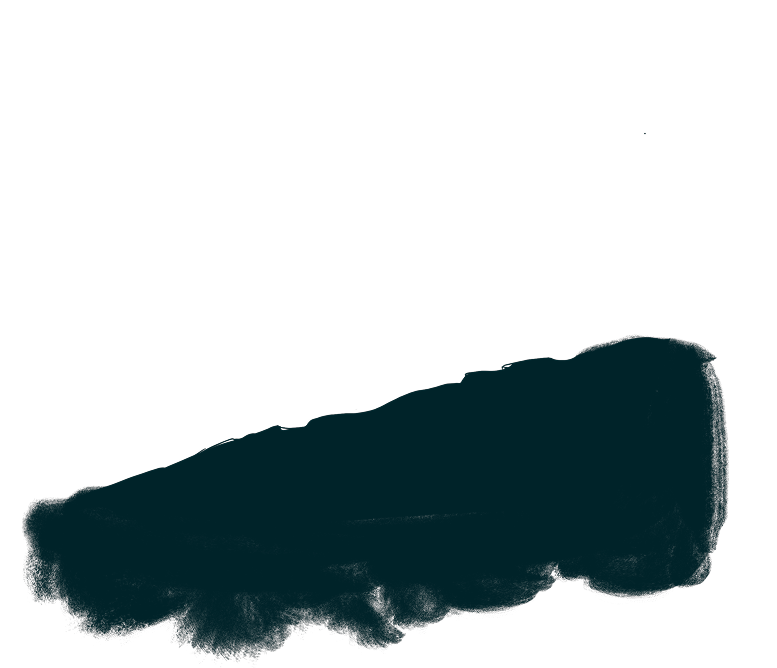
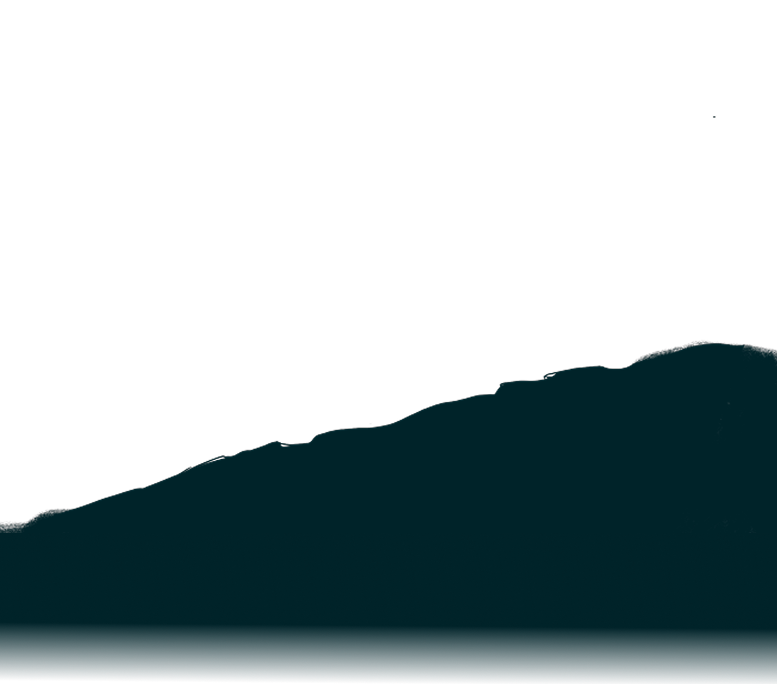
hard to continue

diff --git a/style.css b/style.css
@@ -8,7 +8,8 @@ body {
   overflow-x: hidden;
   font-family: -apple-system, BlinkMacSystemFont, 'Segoe UI', Roboto, Oxygen, Ubuntu,
                'Fira Sans', 'Droid Sans', 'Helvetica Neue', sans-serif;
-  background: linear-gradient(to bottom, #ffffff 0%,  #faf3e8 20%, #faf3e8 93%,  #0E2229 98%, #0E2229 100%);
+  /* background: linear-gradient(to bottom, #ffffff 0%,  #faf3e8 20%, #faf3e8 93%,  #0E2229 98%, #0E2229 100%); */
+  background:linear-gradient(to bottom, #ffffff 0%, #faf3e8 56%, #6A0201 59%, #0E2229 66%, #faf3e8 69%, #faf3e8 90%, #0E2229 96%, #0E2229 100%);
   color: #333;
 }
 
@@ -540,7 +541,7 @@ body {
 .ceasefire-parallax {
   position: relative;
   height: 200vh;             /* tall scrollable section  */
-background: linear-gradient(180deg,rgba(106, 2, 1, 0) 0%, rgba(106, 2, 1, 1) 28%, rgba(14, 34, 41, 1) 90%, rgba(6, 5, 49, 0) 100%);
+/* background: linear-gradient(180deg,rgba(106, 2, 1, 0) 0%, rgba(106, 2, 1, 1) 28%, rgba(14, 34, 41, 1) 90%, rgba(6, 5, 49, 0) 100%); */
   overflow: hidden;
 }
 
@@ -614,7 +615,7 @@ background: linear-gradient(180deg,rgba(106, 2, 1, 0) 0%, rgba(106, 2, 1, 1) 28%
 }
 
 .sky  { z-index: 3; bottom: 8%; }
-.city { z-index: 1; bottom: 10%; }
+.dark-city { z-index: 1; bottom: 80px; }
 .people { z-index: 4; bottom: 13%; width: 80%; right: 20px; }
 .rock { z-index: 5; bottom: 10%; }
 
@@ -827,7 +828,9 @@ position: relative;}
 /* === Desktop Enhancements === */
 @media (min-width: 1024px) {
 body {
-    background: linear-gradient(to bottom, #ffffff 0%,  #faf3e8 5%, #faf3e8 90%,  #0E2229 96%, #0E2229 100%);
+    /* background: linear-gradient(to bottom, #ffffff 0%,  #faf3e8 5%, #faf3e8 90%,  #0E2229 96%, #0E2229 100%); */
+      background: linear-gradient(to bottom, #ffffff 0%,  #faf3e8 56%,  #6A0201 60%,  #0E2229 65%, #faf3e8 70%, #faf3e8 90%, #0E2229 96%, #0E2229 100%);
+
  }
 
  .layer {
@@ -979,11 +982,20 @@ body {
     z-index: 1;
 }
 
+.black-smoke {
+  position: absolute;
+  bottom: -100px;
+  width: 100%;
+  height: 40vh;
+  background: linear-gradient(to bottom, rgba(14,34,41,1) 0%, rgba(14,34,41,0) 95%,  #faf3e8 100%);
+  z-index: 2;
+}
+
 .sky  {
   bottom: -50px;
 }
 
-.city {
+.dark-city {
   bottom: 0;
 }
 
@@ -1108,6 +1120,13 @@ body {
 }
 
 .timeline-block:last-of-type .timeline-header {
+  position: relative !important;
+  top: auto !important;
+  background: none;
+  z-index: 1;
+}
+
+.non-sticky {
   position: relative !important;
   top: auto !important;
   background: none;

diff --git a/index.html b/index.html
@@ -301,11 +301,11 @@
     <img src="img/flair-3.png" class="flair-layer flare" data-speed="0.18" alt="Flare 3" />
     </div>
      <img src="img/smoke.png" class="smoke-bottom" alt="City-smoke" />
-    <img src="img/dark-city.png" class="change-mobile flair-layer city" alt="City silhouette" />
+    <img src="img/dark-city.png" class="change-mobile flair-layer dark-city" alt="City silhouette" />
     <img src="img/red-smoke.png" class="change-mobile flair-layer sky" alt="red sky background" />
     <img src="img/people-sit.png" class="change-mobile flair-layer people" alt="red sky background" />
     <img src="img/people-rock.png" class="change-mobile flair-layer rock" alt="City silhouette" />
-
+    <!-- <div class="black-smoke"></div> -->
   </div>
   </section>
 
@@ -314,7 +314,7 @@
  <!-- Block 9 -->
 
 <div class="timeline-block">
-      <div class="timeline-header">
+      <div class="timeline-header non-sticky">
         <span class="date">15.01.2024</span>
         <h2 class="headline">
           <a target="_blank" href="https://www.972mag.com/gaza-ceasefire-fragile-hope-palestinians/">
@@ -436,7 +436,7 @@
 
   <!-- Block 13 -->
   <div class="timeline-block">
-       <div class="timeline-header">
+       <div class="timeline-header non-sticky">
       <span class="date">09.09.2025</span>
       <h2 class="headline">
       <a target="_blank" href="https://www.972mag.com/gaza-city-bombing-displacement-evacuation/">

diff --git a/effect.js b/effect.js
@@ -246,9 +246,11 @@ window.addEventListener("scroll", () => {
 (() => {
   const section = document.querySelector(".ceasefire-parallax");
   const flares = section.querySelectorAll(".flare");
-  const city = section.querySelector(".city");
+  const city = section.querySelector(".dark-city");
   const people = section.querySelector(".people");
   const rock = section.querySelector(".rock");
+  const smoke = section.querySelector(".smoke-bottom");
+
 
   window.addEventListener("scroll", () => {
     const rect = section.getBoundingClientRect();
@@ -261,9 +263,14 @@ window.addEventListener("scroll", () => {
       flare.style.transform = `translateY(${translateY}vh)`;
     });
  // === City rises (background) ===
-    const cityLift = -progress * 20; // moves upward as you scroll
+    const cityLift = -progress * 80; // moves upward as you scroll
     city.style.transform = `translateY(${cityLift}px)`;
     // city.style.opacity = Math.min(progress * 1.4, 1);
+
+    const smokeLift = -progress * 120; // moves upward as you scroll
+    smoke.style.transform = `translateY(${cityLift}px)`;
+    // city.style.opacity = Math.min(progress * 1.4, 1);
+
 
     // === People + rock descend (foreground) ===
     const foregroundMove = progress * 40; // move downward
